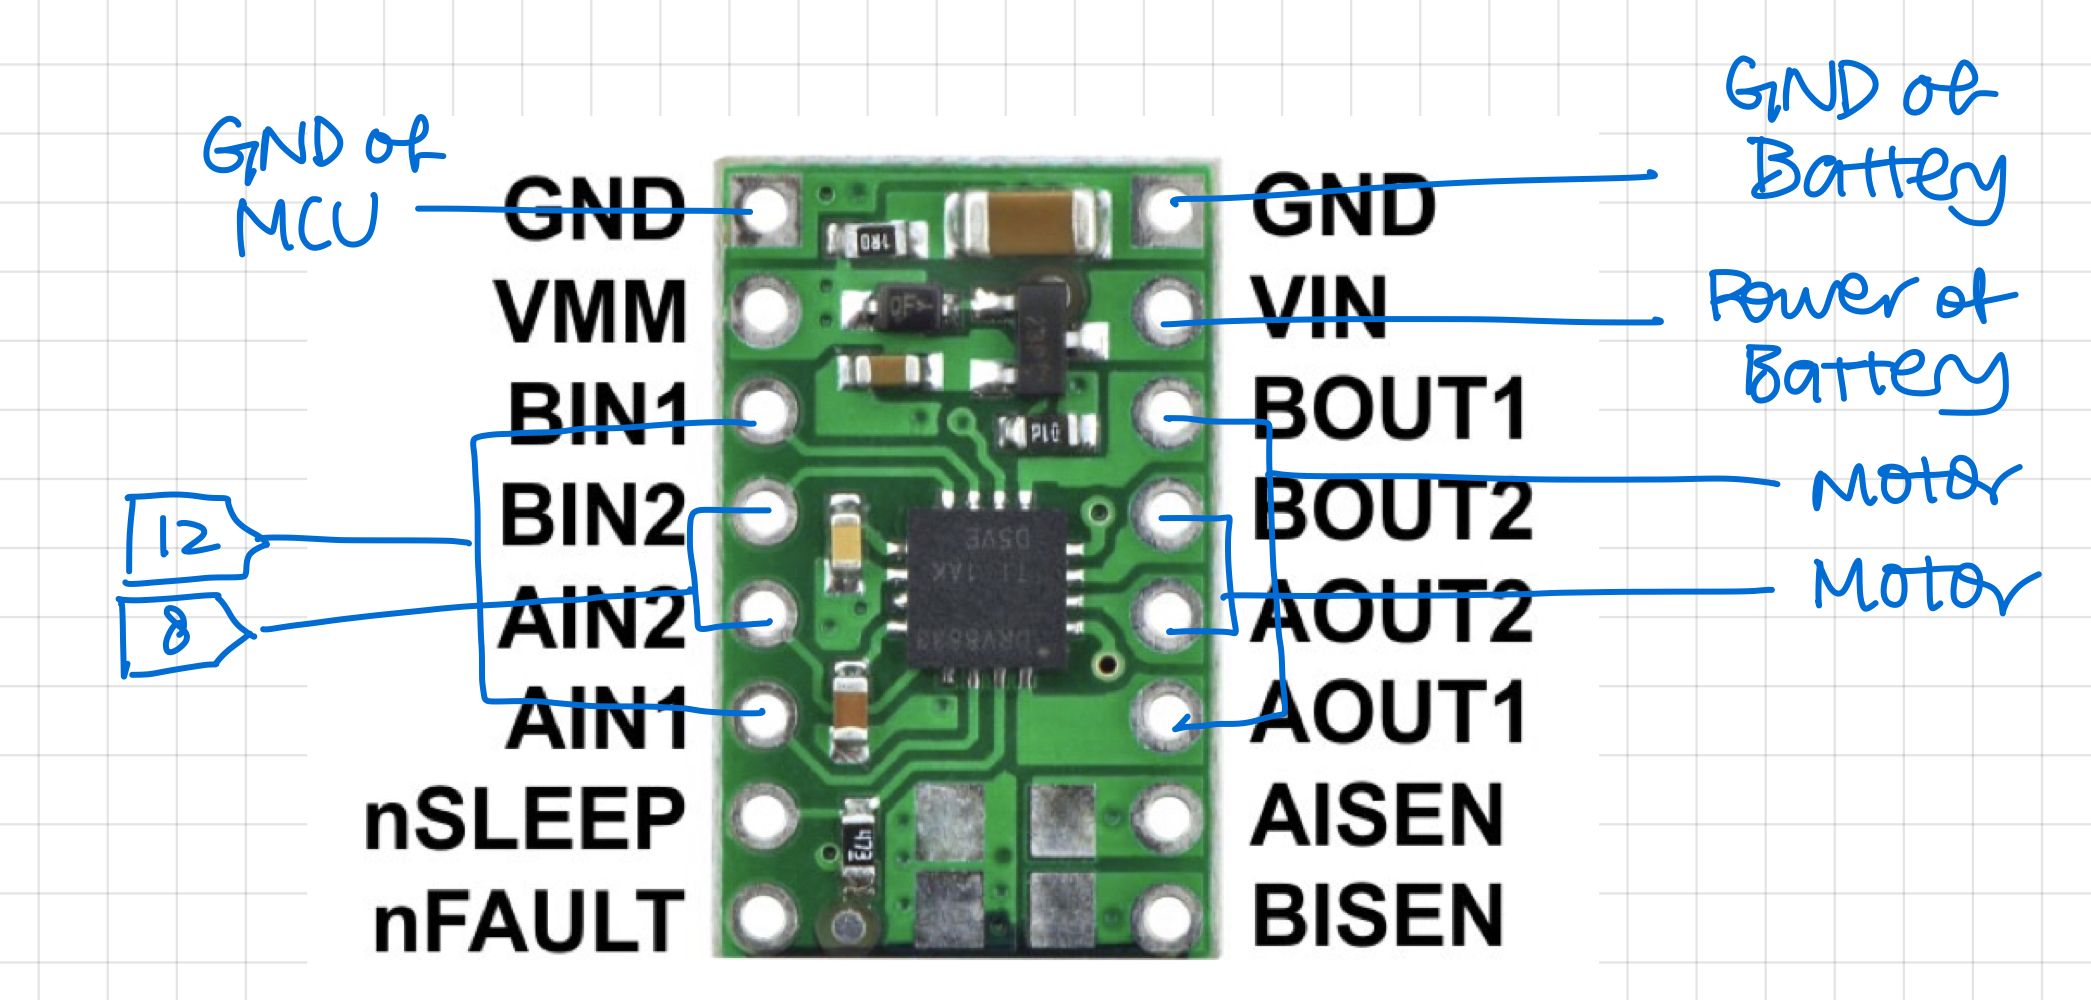
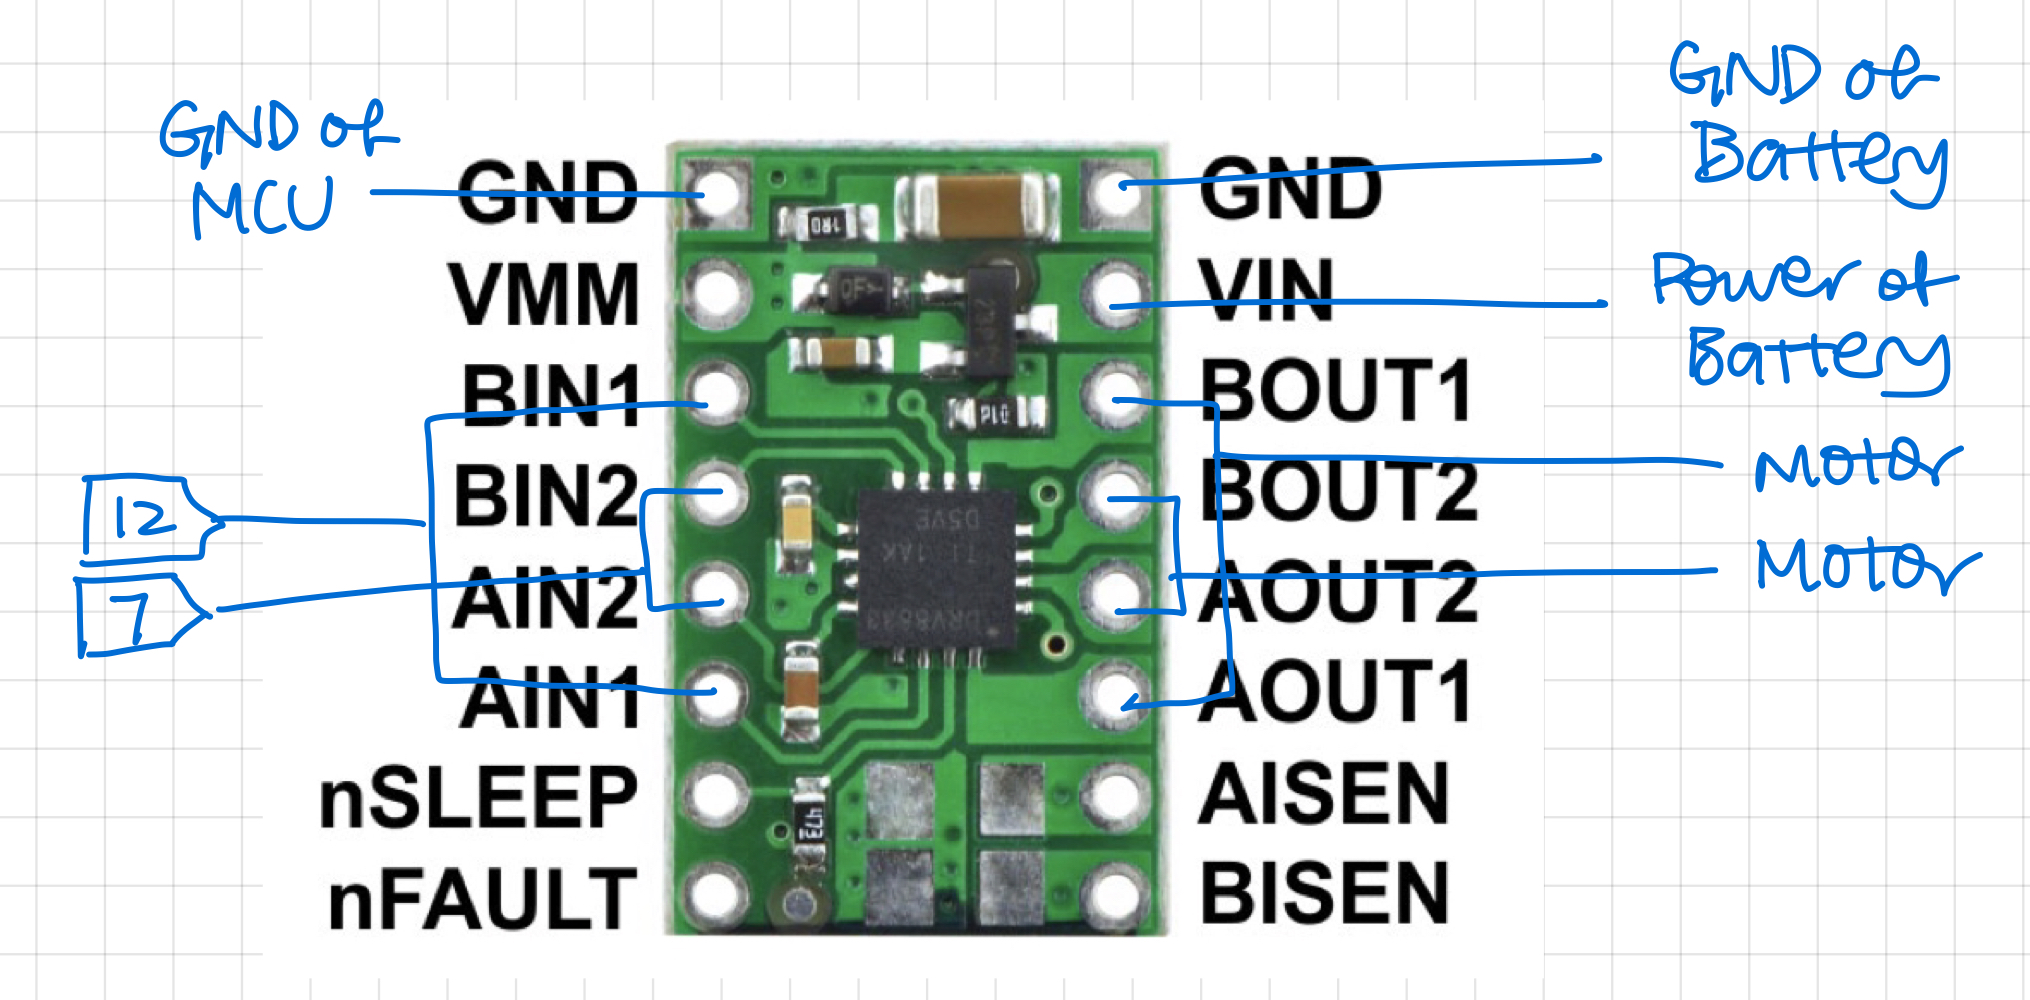
update

diff --git a/_labs/lab5.md b/_labs/lab5.md
@@ -13,6 +13,8 @@ In this lab, we changed from manual to open loop control of the car. At the end 
 __What pins will you use for control on the Artemis?__
 
 <p align="left"><img src="../../images/lab5/motor-pins1.jpeg" height="600" width="600"></p>
+<p align="left"><img src="../../images/lab5/motor-pins2.jpeg" height="600" width="600"></p>
+
 
 __We recommend powering the Artemis and the motor drivers/motors from separate batteries. Why is that?__
 
@@ -26,13 +28,13 @@ One way that we've attempted to suppress noise is to twist the wires and cables.
 
 I first soldered the motor drivers to the Artemis board and connected make the connections as shown below:
 
-<p align="left"><img src="../../images/lab5/motor-oscill.jpg" height="600" width="600"></p>
+<p align="left"><img src="../../images/lab5/motor-oscill.jpeg" height="600" width="600"></p>
 
-I chose a 3V power supply so as to mimic the voltage of the batteries that we use (3.3V from the Artemis, 3.7V from the battery). I used the function `analogWrite()` to generate PWM signals to the 8 and 12 pins. I took the image below from the datasheet and referred to it when deciding what value to `analogWrite()` to each pin.
+I chose a 3.7V power supply so as to mimic the voltage of the batteries that we use (3.3V from the Artemis, 3.7V from the battery) and 5A current. I used the function `analogWrite()` to generate PWM signals to the 7 and 12 pins. I took the image below from the datasheet and referred to it when deciding what value to `analogWrite()` to each pin.
 
 <p align="left"><img src="../../images/lab5/pwm-control.png" height="600" width="600"></p>
 
-I first set pin 8 to 0 and pin 12 to 100 and got the oscilloscope output as shown below.
+I first set pin 7 to 0 and pin 12 to 100 and got the oscilloscope output as shown below.
 
 <script src="https://gist.github.com/anyafp/2233df9d85f6677e564823ad0609fece.js"></script>
 <p align="left"><img src="../../images/lab5/oscill-100.png" height="600" width="600"></p>
@@ -41,4 +43,24 @@ Changing pin 12 to 200 gives this output:
 
 <p align="left"><img src="../../images/lab5/oscill-200.png" height="600" width="600"></p>
 
-These were expected results so I did not try other combinations of PWM values. I then moved on to taking my car apart and replacing the oscilloscope connections with connections to the motor.
+These were expected results so I did not try other combinations of PWM values. I then moved on to taking my car apart and replacing the oscilloscope connections with connections to the motor. I used the code below instead to show that the motors can run in both directions.
+
+<script src="https://gist.github.com/anyafp/99c13088001cc9c8639288d948f2f8ac.js"></script>
+
+As you can tell from the code, the motor should run in one direction for 1s, pause for 1s, run in the other direction, and pause for another second before repeating this cycle. I was supposed to use the power supply but jumped straight to using the battery because the battery supplied a more stable current than the power supply (i.e. the motor was more jittery with the power supply). Below is a video showing the motors running with the battery. The pause in the video seems less than 1 second because it takes some time for the motors to come to a stop (which eats into the pause time).
+
+<p align="left"><iframe width="720" height="408" src="https://youtube.com/embed/EqGnz6_-7m8"></iframe></p>
+<p></p>
+
+Next, I soldered the second motor similar to the first (with the connections shown in the Prelab) and ran this code on the Artemis:
+
+<script src="https://gist.github.com/anyafp/6922b98aac0f3f95de7d4318f733c419.js"></script>
+
+Similar to the example with one motor, the exact same thing should happen but this time, to both motors simultaneously as shown below:
+
+<p align="left"><iframe width="720" height="408" src="https://youtube.com/embed/1xp8zGrOSL4"></iframe></p>
+<p></p>
+
+Now that I knew that both motors work, I could secure everything in the car and run it on its own.
+
+<p align="left"><img src="../../images/lab5/car-connect.jpeg" height="600" width="600"></p>
